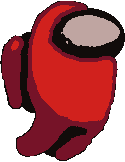
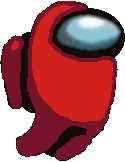
Make the character visor closer to the original one

Changed region(s): [[0.456, 0.0617, 0.984, 0.3395]]

diff --git a/src/components/CharacterGenerator.js b/src/components/CharacterGenerator.js
@@ -5,7 +5,6 @@ import classnames from 'classnames'
 
 import getImage from '../util/getImage'
 
-const COLOR_LIGHT_RED = '#bfa5a1'
 const COLOR_RED = '#d1211d'
 const COLOR_DARK_RED = '#761328'
 
@@ -18,11 +17,9 @@ const getColorChangedImage = async (colorToChange) => {
   context.drawImage(characterImage, 0, 0, canvas.width, canvas.height)
 
   const darkenPercentage = colorToChange.darken || 24
-  const lightenPercentage = colorToChange.lighten || 40
   const parsedColorToChange = tinycolor(colorToChange.value)
   const parsedColorRGBA = parsedColorToChange.toRgb()
   const darkParsedColorRGBA = parsedColorToChange.darken(darkenPercentage).toRgb()
-  const lightParsedColorRGBA = parsedColorToChange.lighten(lightenPercentage).toRgb()
 
   const imageData = context.getImageData(0, 0, canvas.width, canvas.height)
   for (var i = 0; i < imageData.data.length; i += 4) {
@@ -34,11 +31,6 @@ const getColorChangedImage = async (colorToChange) => {
     const colorHex = color.toHexString()
 
     switch (colorHex) {
-      case COLOR_LIGHT_RED:
-        imageData.data[i] = lightParsedColorRGBA.r
-        imageData.data[i + 1] = lightParsedColorRGBA.g
-        imageData.data[i + 2] = lightParsedColorRGBA.b
-        break
       case COLOR_RED:
         imageData.data[i] = parsedColorRGBA.r
         imageData.data[i + 1] = parsedColorRGBA.g
@@ -69,18 +61,18 @@ const generateCharacter = async (canvas, color) => {
 const colors = [
   { value: '#d1211d' },
   { value: '#1e27e2' },
-  { value: '#328100', darken: 10, lighten: 50 },
+  { value: '#328100', darken: 10 },
   //
   { value: '#e052c2' },
   { value: '#e47e00' },
-  { value: '#f6f157' },
+  { value: '#f6f157', darken: 40 },
   //
-  { value: '#3f474e', darken: 10, lighten: 60 },
+  { value: '#3f474e', darken: 10 },
   { value: '#d7e1f1' },
-  { value: '#6b2fbc' },
+  { value: '#6b2fbc', darken: 20 },
   //
-  { value: '#71491e', darken: 10, lighten: 40 },
-  { value: '#74fdd8', darken: 40, lighten: 30 },
+  { value: '#71491e', darken: 10 },
+  { value: '#74fdd8', darken: 40 },
   { value: '#75f100' }
 ]
 
